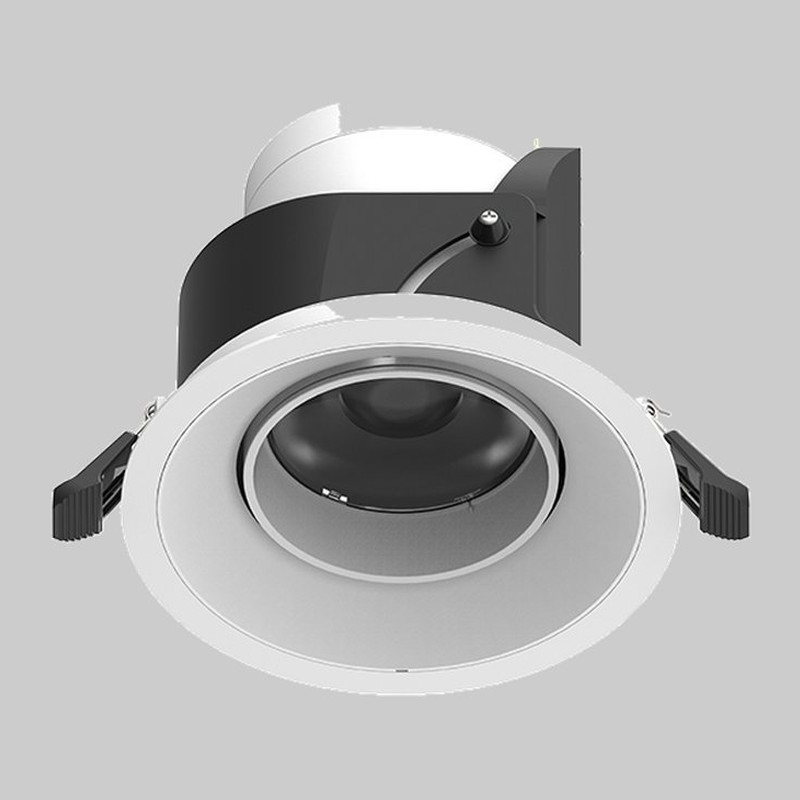
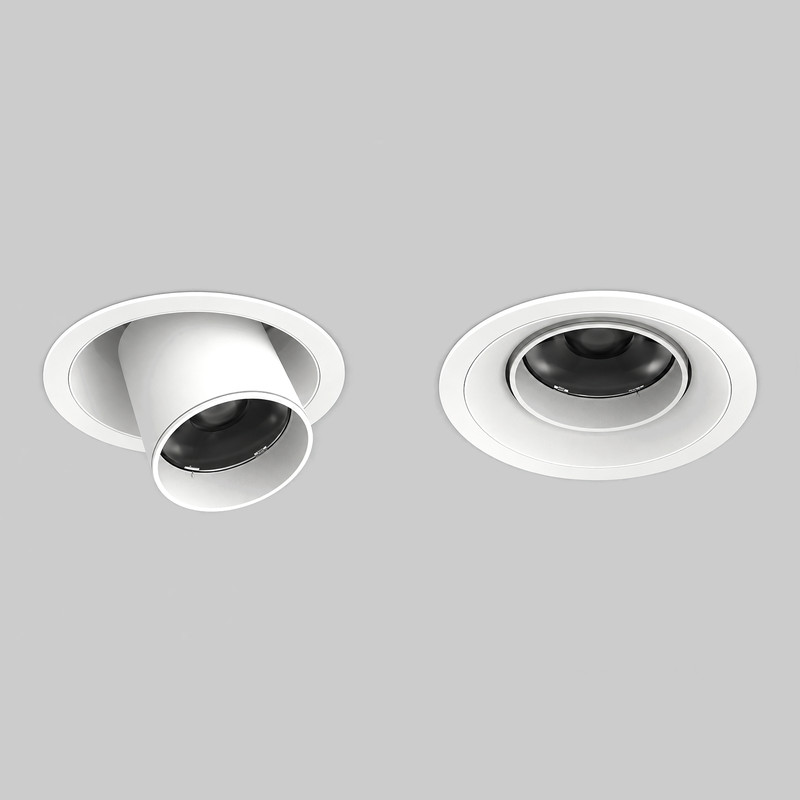
Make R: new thumbnail (white, both versions side by side), not true-scaled
Claude-Session: https://claude.ai/code/session_013gY9EkMdQhEEWps6SMLP8q

diff --git a/public/products/inground-radius-rgbw/index.html b/public/products/inground-radius-rgbw/index.html
@@ -632,7 +632,7 @@ footer a{text-decoration:none}footer a:hover{color:var(--accent-ink)}
 </div></header>
 
 <main id="app" aria-live="polite"><section class="pslider" aria-roledescription="carousel" aria-label="Inground Radius RGBW"><div class="pslides" id="pslides"><div class="pslide" aria-roledescription="slide" aria-label="1 of 2"><img src="images/inground-radius-rgbw/inground-radius-rgbw-banner-01.jpg" alt="Inground Radius RGBW installed"></div><div class="pslide" aria-roledescription="slide" aria-label="2 of 2"><img src="images/inground-radius-rgbw/inground-radius-rgbw-banner-02.jpg" alt="Inground Radius RGBW installed" loading="lazy"></div></div>
-    <div class="ptext light"><div class="wrap"><div class="inner"><div class="pt-title">Inground Radius RGBW</div><div class="pt-dots" id="sDots" role="tablist" aria-label="Slides"><button role="tab" data-i="0" aria-label="Slide 1" aria-selected="true"></button><button role="tab" data-i="1" aria-label="Slide 2" aria-selected="false"></button></div></div></div></div></section><div class="wrap"><div class="crumbs"><a href="#home">Home</a><span class="sep">/</span><a href="#exterior">Exterior</a><span class="sep">/</span><a href="#c-exterior-inground-linear">Inground Linear</a><span class="sep">/</span><span>Inground Radius RGBW</span></div>
+    <div class="ptext"><div class="wrap"><div class="inner"><div class="pt-title">Inground Radius RGBW</div><div class="pt-dots" id="sDots" role="tablist" aria-label="Slides"><button role="tab" data-i="0" aria-label="Slide 1" aria-selected="true"></button><button role="tab" data-i="1" aria-label="Slide 2" aria-selected="false"></button></div></div></div></div></section><div class="wrap"><div class="crumbs"><a href="#home">Home</a><span class="sep">/</span><a href="#exterior">Exterior</a><span class="sep">/</span><a href="#c-exterior-inground-linear">Inground Linear</a><span class="sep">/</span><span>Inground Radius RGBW</span></div>
   <div class="p-top">
     <div class="p-info"><div class="p-intro"><h1>Inground Radius RGBW</h1>
       <div class="sub">Inground Linear · Exterior</div>
